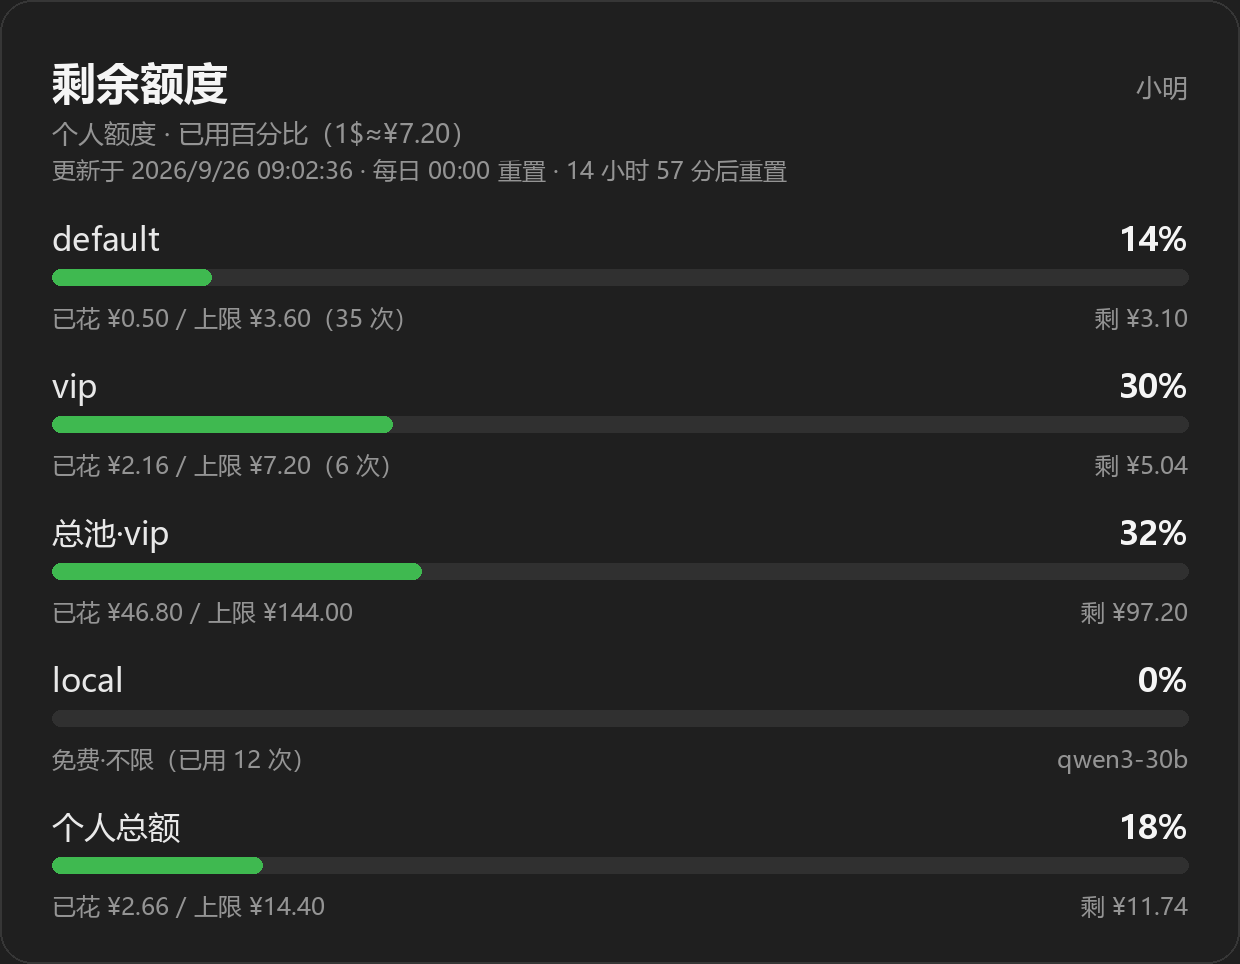
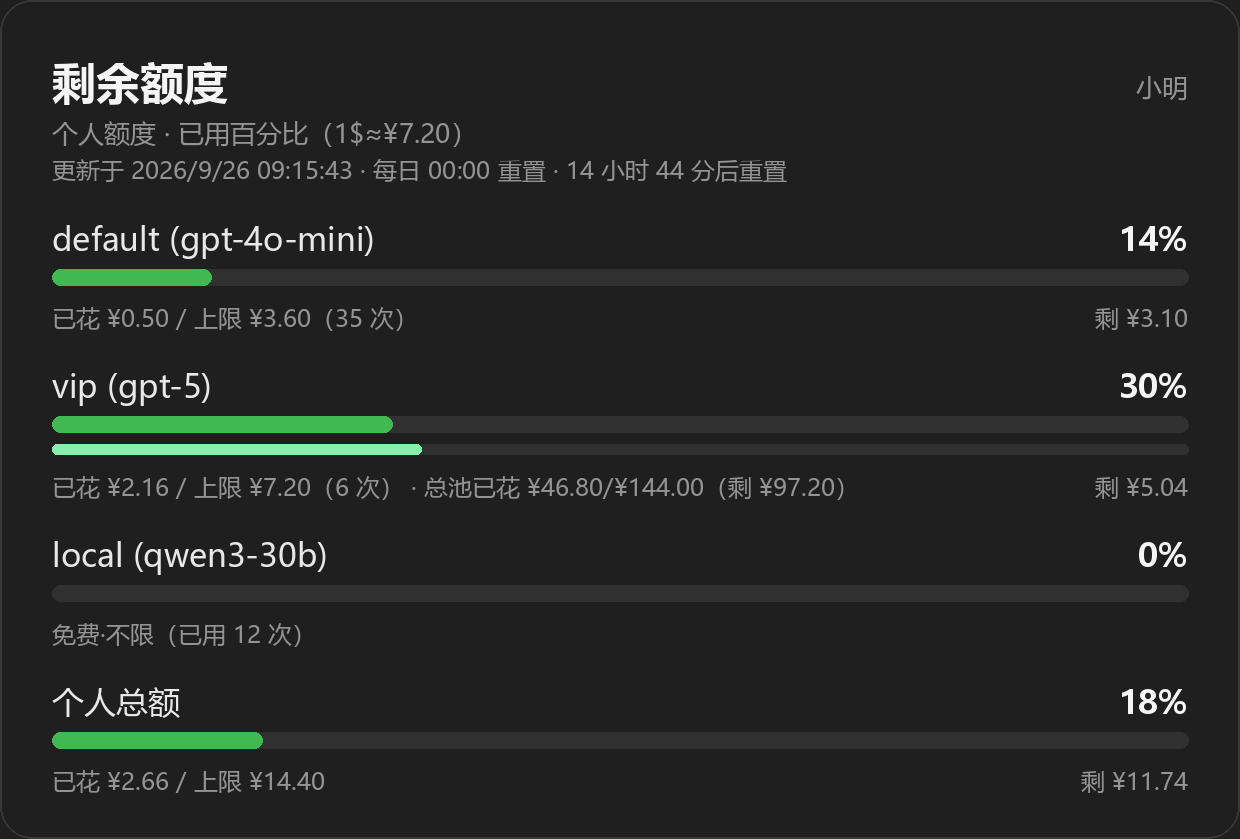
feat: 卡片用正常模型名，总池并入同一模型块（浅绿条+同行花费）

diff --git a/main.py b/main.py
@@ -61,6 +61,8 @@ COLOR_LABEL = (232, 232, 232)
 COLOR_MUTED = (148, 148, 148)
 COLOR_TRACK = (48, 48, 48)
 COLOR_GREEN = (63, 185, 80)
+COLOR_POOL = (134, 239, 172)
+"""总池进度条：浅绿色，与个人条区分。"""
 COLOR_AMBER = (210, 153, 34)
 COLOR_RED = (248, 81, 73)
 
@@ -449,19 +451,28 @@ class ModelQuotaPlugin(Star):
     ) -> list[str]:
         """个人剩余额度行：ocgo 风格（进度条 + 已用百分比 + 花费 + 重置由调用方统一附）。
 
-        只列开放自选的模型。
+        只列开放自选的模型，总池花费并在同一行。
         """
         lines: list[str] = []
         for pid, model in self._provider_list(selectable_only=True):
             price = self.price_for(pid)
-            show = model if model and model != pid else ""
-            title = f"{pid}" + (f"（{show}）" if show else "")
+            title = self._display_name(pid, model)
             used_n = counts.get(pid, 0) if isinstance(counts.get(pid), int) else 0
             spent_m = self._num(spent, pid)
             if price <= 0:
                 lines.append(f"- {title}：免费·{_UNLIMITED}（已用 {used_n} 次）")
                 continue
             ulimit = self.user_model_limit(pid)
+            pool_suffix = ""
+            glimit = self.global_limit(pid)
+            if glimit > 0:
+                gspent = self._num(gspent_map, pid)
+                pool_suffix = (
+                    f" · 总池已花 {self.cny(gspent)}/{self.cny(glimit)}"
+                    f"（剩 {self.cny(max(glimit - gspent, 0))}）"
+                )
+                if gspent + price > glimit + _EPS:
+                    pool_suffix += f" {LIMITED_MARK} 总池已用完"
             if ulimit > 0:
                 pct = min(spent_m / ulimit * 100.0, 100.0) if ulimit > 0 else 0.0
                 exhausted = spent_m + price > ulimit + _EPS
@@ -469,6 +480,7 @@ class ModelQuotaPlugin(Star):
                     f"- {title} {self._bar(pct)} {pct:>3.0f}% "
                     f"已花 {self.cny(spent_m)}/{self.cny(ulimit)}"
                     f"（{used_n} 次）剩 {self.cny(max(ulimit - spent_m, 0))}"
+                    f"{pool_suffix}"
                 )
                 if exhausted:
                     line += f"  {LIMITED_MARK} 已用完"
@@ -476,19 +488,8 @@ class ModelQuotaPlugin(Star):
             else:
                 lines.append(
                     f"- {title}：已用 {used_n} 次·{self.cny(spent_m)}（个人不限）"
+                    f"{pool_suffix}"
                 )
-            glimit = self.global_limit(pid)
-            if glimit > 0:
-                gspent = self._num(gspent_map, pid)
-                gpct = min(gspent / glimit * 100.0, 100.0) if glimit > 0 else 0.0
-                gline = (
-                    f"    总池 {self._bar(gpct)} {gpct:>3.0f}% "
-                    f"已花 {self.cny(gspent)}/{self.cny(glimit)}"
-                    f" 剩 {self.cny(max(glimit - gspent, 0))}"
-                )
-                if gspent + price > glimit + _EPS:
-                    gline += f"  {LIMITED_MARK} 已用完"
-                lines.append(gline)
         return lines
 
     def _total_line(self, total: float) -> str:
@@ -512,62 +513,79 @@ class ModelQuotaPlugin(Star):
         return total if isinstance(total, (int, float)) else 0.0
 
     # ------------------------------------------------------------------
-    # 额度图片卡（/ocgo 同款：深色卡片 + 进度条 + 百分比 + 重置时间）
-    # 行结构：(label, percent 已用百分比, limited 是否用完, sub_left, sub_right)
+    # 额度图片卡（深色卡片 + 进度条 + 百分比 + 重置时间）
+    # 行结构：(label, percent 个人已用百分比, limited 是否用完,
+    #          sub_left, sub_right, pool_percent 总池已用百分比或 None,
+    #          pool_sub 总池说明文字或 "")
+    # 总池画在同一模型块内的第二条浅绿色进度条，花费与个人行写在同一行。
     # ------------------------------------------------------------------
+
+    @staticmethod
+    def _display_name(pid: str, model: str) -> str:
+        """卡片/文本用的正常模型名称：ID + 模型名。"""
+        if model and model != pid:
+            return f"{pid} ({model})"
+        return pid
 
     def _quota_card_rows_personal(
         self, counts: dict, spent: dict, gspent_map: dict
-    ) -> list[tuple[str, float, bool, str, str]]:
+    ) -> list[tuple[str, float, bool, str, str, float | None, str]]:
         """组装个人额度卡片行，只含开放自选的模型 + 个人总额行。"""
-        rows: list[tuple[str, float, bool, str, str]] = []
+        rows: list[tuple[str, float, bool, str, str, float | None, str]] = []
         for pid, model in self._provider_list(selectable_only=True):
             price = self.price_for(pid)
+            label = self._display_name(pid, model)
             used_n = counts.get(pid, 0) if isinstance(counts.get(pid), int) else 0
             spent_m = self._num(spent, pid)
             if price <= 0:
                 rows.append(
-                    (pid, 0.0, False, f"免费·{_UNLIMITED}（已用 {used_n} 次）", model or "")
+                    (
+                        label,
+                        0.0,
+                        False,
+                        f"免费·{_UNLIMITED}（已用 {used_n} 次）",
+                        "",
+                        None,
+                        "",
+                    )
                 )
                 continue
             ulimit = self.user_model_limit(pid)
+            glimit = self.global_limit(pid)
+            pool_pct: float | None = None
+            pool_sub = ""
+            if glimit > 0:
+                gspent = self._num(gspent_map, pid)
+                pool_pct = min(gspent / glimit * 100.0, 100.0)
+                pool_sub = (
+                    f"总池已花 {self.cny(gspent)}/{self.cny(glimit)}"
+                    f"（剩 {self.cny(max(glimit - gspent, 0))}）"
+                )
             if ulimit > 0:
                 pct = min(spent_m / ulimit * 100.0, 100.0)
                 exhausted = spent_m + price > ulimit + _EPS
+                sub_left = (
+                    f"已花 {self.cny(spent_m)} / 上限 {self.cny(ulimit)}"
+                    f"（{used_n} 次）"
+                )
+                if pool_sub:
+                    sub_left += f" · {pool_sub}"
                 rows.append(
                     (
-                        pid,
+                        label,
                         pct,
                         exhausted,
-                        f"已花 {self.cny(spent_m)} / 上限 {self.cny(ulimit)}"
-                        f"（{used_n} 次）",
+                        sub_left,
                         f"剩 {self.cny(max(ulimit - spent_m, 0))}",
+                        pool_pct,
+                        "",
                     )
                 )
             else:
-                rows.append(
-                    (
-                        pid,
-                        0.0,
-                        False,
-                        f"已用 {used_n} 次·{self.cny(spent_m)}（个人不限）",
-                        model or "",
-                    )
-                )
-            glimit = self.global_limit(pid)
-            if glimit > 0:
-                gspent = self._num(gspent_map, pid)
-                gpct = min(gspent / glimit * 100.0, 100.0)
-                gexhausted = gspent + price > glimit + _EPS
-                rows.append(
-                    (
-                        f"总池·{pid}",
-                        gpct,
-                        gexhausted,
-                        f"已花 {self.cny(gspent)} / 上限 {self.cny(glimit)}",
-                        f"剩 {self.cny(max(glimit - gspent, 0))}",
-                    )
-                )
+                sub_left = f"已用 {used_n} 次·{self.cny(spent_m)}（个人不限）"
+                if pool_sub:
+                    sub_left += f" · {pool_sub}"
+                rows.append((label, 0.0, False, sub_left, "", pool_pct, ""))
         return rows
 
     @staticmethod
@@ -644,7 +662,7 @@ class ModelQuotaPlugin(Star):
         title: str,
         name: str,
         subtitle: str,
-        rows: list[tuple[str, float, bool, str, str]],
+        rows: list[tuple[str, float, bool, str, str, float | None, str]],
     ) -> str | None:
         """用 Pillow 绘制 /ocgo 同款额度卡片。返回图片路径，失败返回 None。
 
@@ -689,8 +707,10 @@ class ModelQuotaPlugin(Star):
         width = CARD_WIDTH * scale
         pad = CARD_PAD * scale
         bar_h = 8 * scale
+        pool_h = 5 * scale
         gap_label_bar = 9 * scale
         gap_bar_sub = 8 * scale
+        gap_bar_pool = 6 * scale
         gap_section = 20 * scale
 
         probe = ImageDraw.Draw(Image.new("RGB", (width, 8)))
@@ -706,8 +726,11 @@ class ModelQuotaPlugin(Star):
         subline_h = line_h("已花 ¥000.00 / 上限 ¥000.00", f_small)
 
         height = pad + title_h + 10 * scale + sub_h + 6 * scale + meta_h + 20 * scale
-        for _label, _percent, _limited, _left, _right in rows:
-            height += label_h + gap_label_bar + bar_h + gap_bar_sub + subline_h
+        for _label, _percent, _limited, _left, _right, _pool_pct, _pool in rows:
+            height += label_h + gap_label_bar + bar_h
+            if _pool_pct is not None:
+                height += gap_bar_pool + pool_h
+            height += gap_bar_sub + subline_h
             height += gap_section
         if rows:
             height -= gap_section
@@ -750,7 +773,7 @@ class ModelQuotaPlugin(Star):
         cursor += meta_h + 20 * scale
 
         track_w = width - pad * 2
-        for label, percent, limited, sub_left, sub_right in rows:
+        for label, percent, limited, sub_left, sub_right, pool_pct, _pool in rows:
             color = self._fill_color(percent, limited)
             pct_text = f"{percent:.0f}%"
             pct_w = probe.textlength(pct_text, font=f_pct)
@@ -784,7 +807,24 @@ class ModelQuotaPlugin(Star):
                     radius=bar_h // 2,
                     fill=color,
                 )
-            cursor += bar_h + gap_bar_sub
+            cursor += bar_h
+            # 总池条：同一模型块内的第二条浅绿色细进度条
+            if pool_pct is not None:
+                cursor += gap_bar_pool
+                draw.rounded_rectangle(
+                    (pad, cursor, pad + track_w, cursor + pool_h),
+                    radius=pool_h // 2,
+                    fill=COLOR_TRACK,
+                )
+                if pool_pct > 0:
+                    pool_fill = max(int(track_w * pool_pct / 100.0), pool_h)
+                    draw.rounded_rectangle(
+                        (pad, cursor, pad + pool_fill, cursor + pool_h),
+                        radius=pool_h // 2,
+                        fill=COLOR_POOL,
+                    )
+                cursor += pool_h
+            cursor += gap_bar_sub
 
             draw.text((pad, cursor), sub_left, font=f_small, fill=COLOR_MUTED)
             if sub_right:
@@ -837,11 +877,13 @@ class ModelQuotaPlugin(Star):
                     total >= tlimit - _EPS,
                     f"已花 {self.cny(total)} / 上限 {self.cny(tlimit)}",
                     f"剩 {self.cny(max(tlimit - total, 0))}",
+                    None,
+                    "",
                 )
             )
         else:
             rows.append(
-                ("个人总额", 0.0, False, f"已花 {self.cny(total)}（总额不限）", "")
+                ("个人总额", 0.0, False, f"已花 {self.cny(total)}（总额不限）", "", None, "")
             )
         try:
             name = event.get_sender_name() or ""

diff --git a/README.md b/README.md
@@ -34,8 +34,9 @@
 ![剩余额度卡片示例](assets/quota_card.png)
 
 卡片内容：标题「剩余额度」+ 用户名、副标题、更新/重置时间、
-逐行「模型名 + 进度条 + 已用百分比」，条下是「已花 ¥/上限 ¥（次数）」和
-右侧「剩 ¥」，总池单列「总池·模型名」行，最后再有一行「个人总额」；
+逐行「正常模型名 + 进度条 + 已用百分比」，有总池的模型在同一块内多一条
+浅绿色总池进度条，总池花费与个人花费写在同一行，
+最后再有一行「个人总额」；
 用完的行标红并带 `※ 已用完`，卡片底部统一提示重置规则。
 
 需要 Pillow + 中文字体（Windows 开箱即用；Linux 需 Noto/wqy）。
@@ -43,14 +44,15 @@
 
 ```text
 📊 我今日剩余额度（1$≈¥7.20）：
-- default（gpt-4o）：已用 2 次·¥0.14，剩 ¥0.86（上限 ¥1.00）
-- vip（gpt-5）：已用 0 次·¥0.00，剩 ¥5.00（上限 ¥5.00）
-    全用户总池：剩 ¥96.00（已花 ¥4.00/¥100.00）
-- local（qwen-local）：免费·不限（已用 3 次）
-💰 今日个人总花费 ¥0.14，剩 ¥1.86（上限 ¥2.00）
+- default (gpt-4o-mini) ██ 14% 已花 ¥0.50/¥3.60（35 次）剩 ¥3.10
+- vip (gpt-5) ██████ 30% 已花 ¥2.16/¥7.20（6 次）剩 ¥5.04 · 总池已花 ¥46.80/¥144.00（剩 ¥97.20）
+- local (qwen3-30b)：免费·不限（已用 12 次）
+💰 个人总额 ████ 18% 已花 ¥2.66/¥14.40 剩 ¥11.74
+⏰ 每日 00:00 重置（14 小时 45 分后重置，明天 00:00）
 ```
 
-即：逐模型显示**已用次数 + 已花人民币 + 剩余/上限**，有总池的模型附一行总池剩余，
+即：逐模型显示**正常模型名 + 已用次数 + 已花人民币 + 剩余/上限**，
+有总池的模型总池花费并在同一行；
 最后再有一行**个人今日总花费与剩余额度**。免费模型显示"免费·不限"。
 文本版末尾会附 `⏰ 每日 00:00 重置（X 小时后重置，明天 00:00）`。
 
